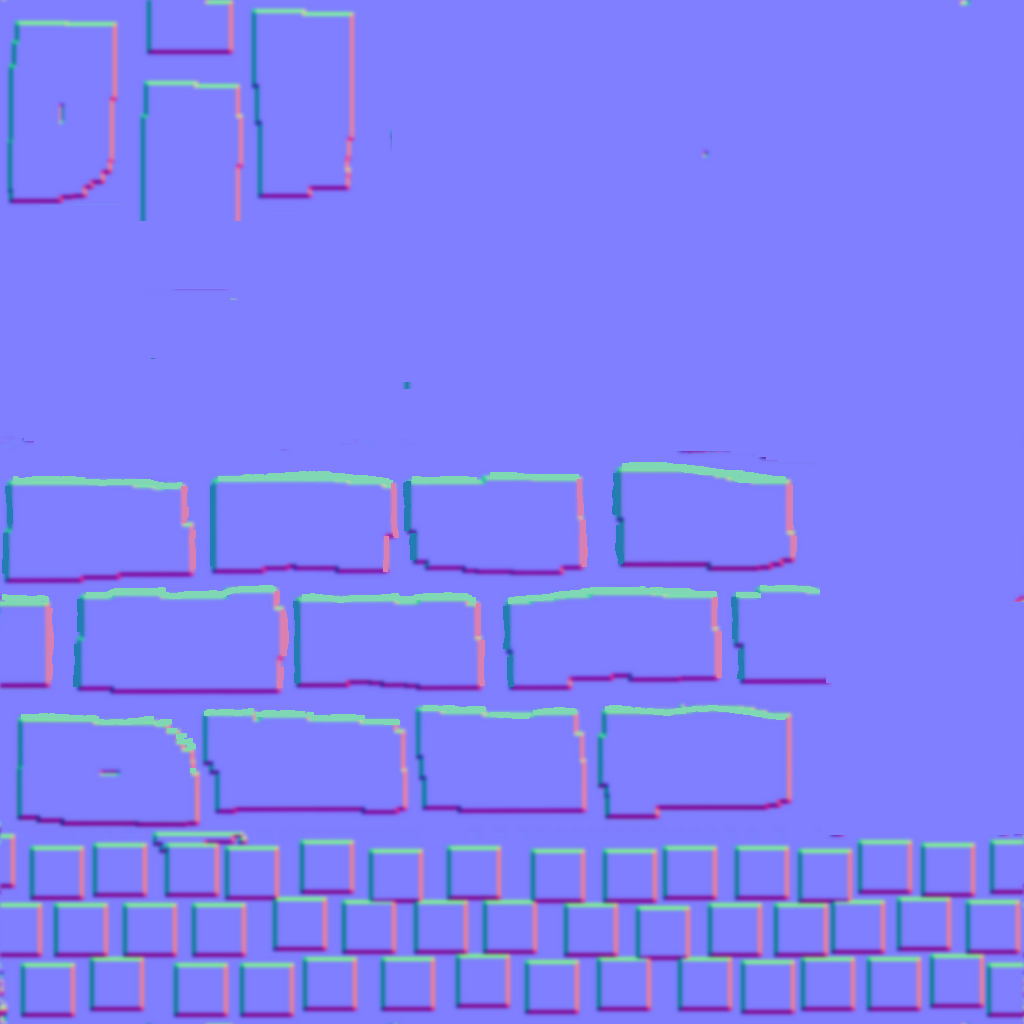
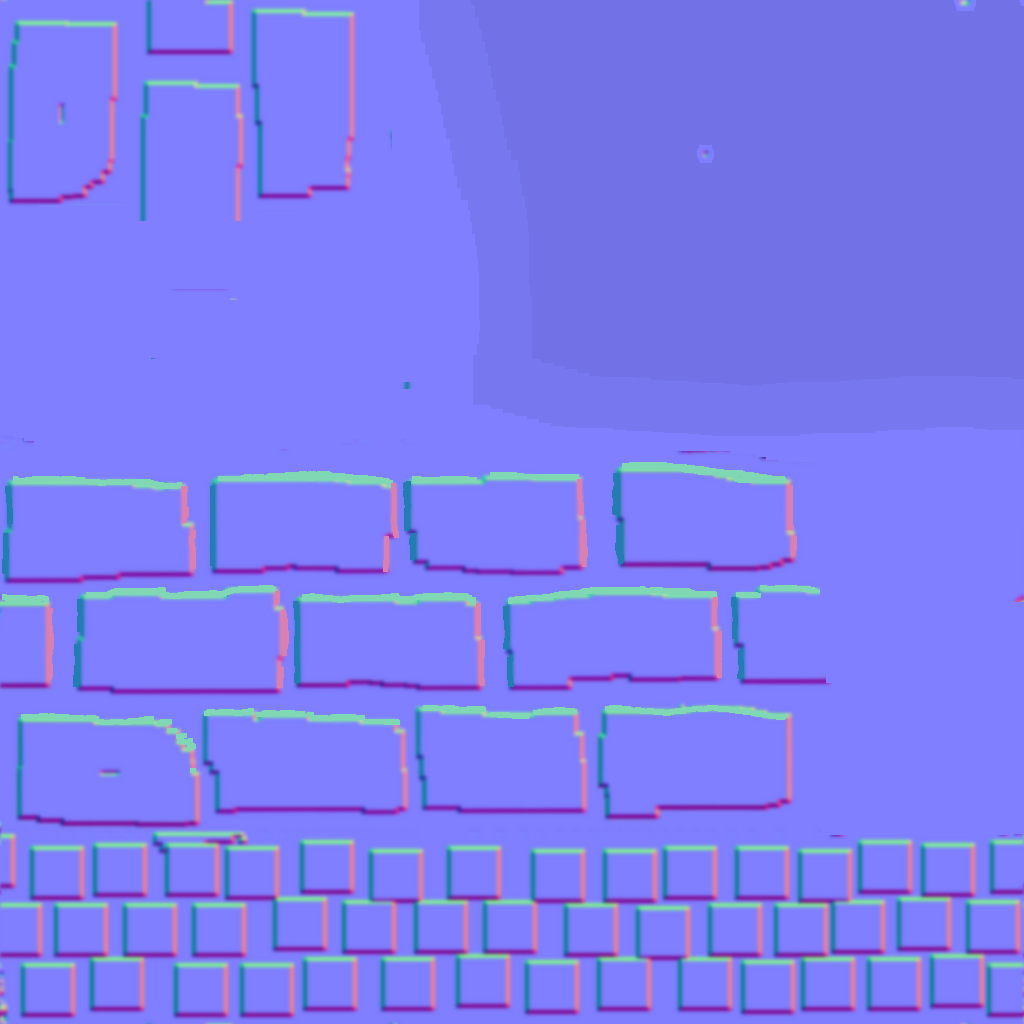
tone down lighting, rescale tower

Changed region(s): [[0.4375, 0.0, 1.0, 0.375]]

diff --git a/src/game.cpp b/src/game.cpp
@@ -40,7 +40,7 @@ void Game::setGlobalLight()
 	globalLight->setLightNum(0);
 	globalLight->setAmbient(osg::Vec4(0.5, 0.5, 0.5, 1.0));
 	globalLight->setDiffuse(osg::Vec4(1.0, 1.0, 1.0, 1.0));
-	globalLight->setSpecular(osg::Vec4(15.0, 15.0, 15.0, 1.0));
+	globalLight->setSpecular(osg::Vec4(5.0, 5.0, 5.0, 1.0));
 	//globalLight->setConstantAttenuation(0.05);
 	//light->setLinearAttenuation(0.05);
 	//globalLight->setQuadraticAttenuation(0.05);
